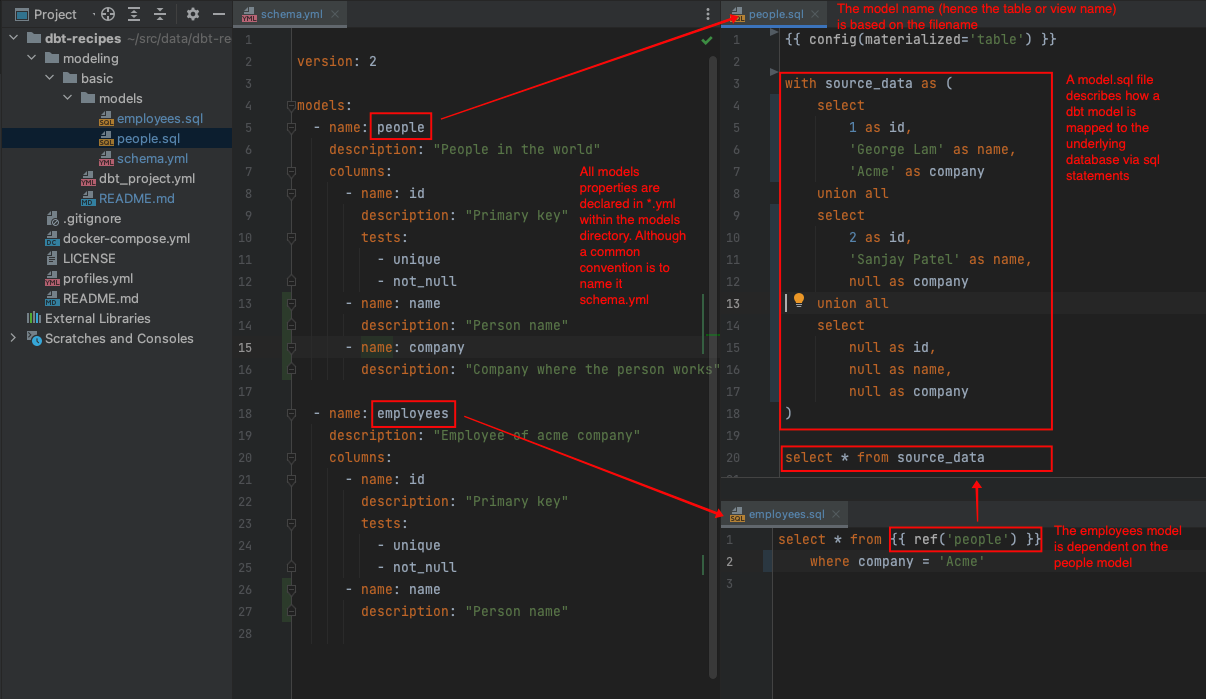
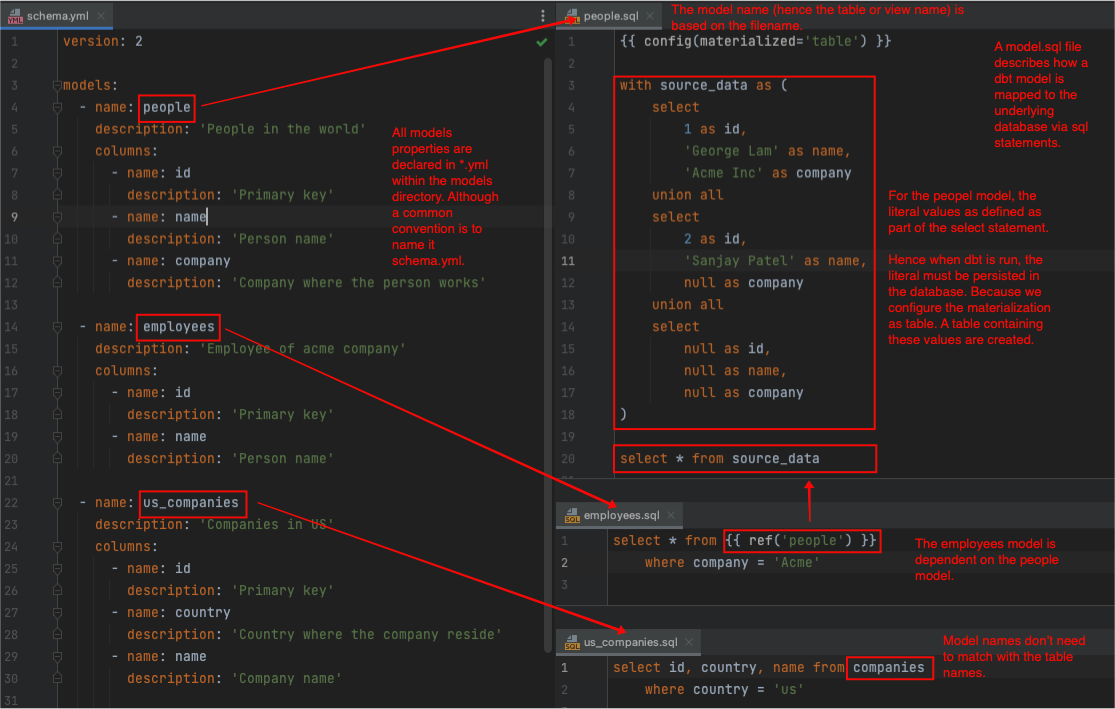
Refactor modeling/basic

diff --git a/modeling/basic/README.md b/modeling/basic/README.md
@@ -10,21 +10,16 @@ A dbt SQL model is defined in a `.sql` file that encapsulates a select statement
 
 ![Model files](images/model_files.png)
 
+* The `companies` table has been created when launching postgres via docker.
+* The `people` table is created when running `dbt run`. See the annotated diagram.
+* The `employees` view is created when running `dbt run`.
+
 ## Setup
 
 1. Run the project.
 
    ```shell
    dbt run
-   ```
-
-1. Test the project.
-
-   ```shell
-   dbt test
-   # This will fail, unless we remove the record with a null id. Edit people.sql and run the following.
-   dbt run
-   dbt test  # Should pass now
    ```
 
 ## Notes
